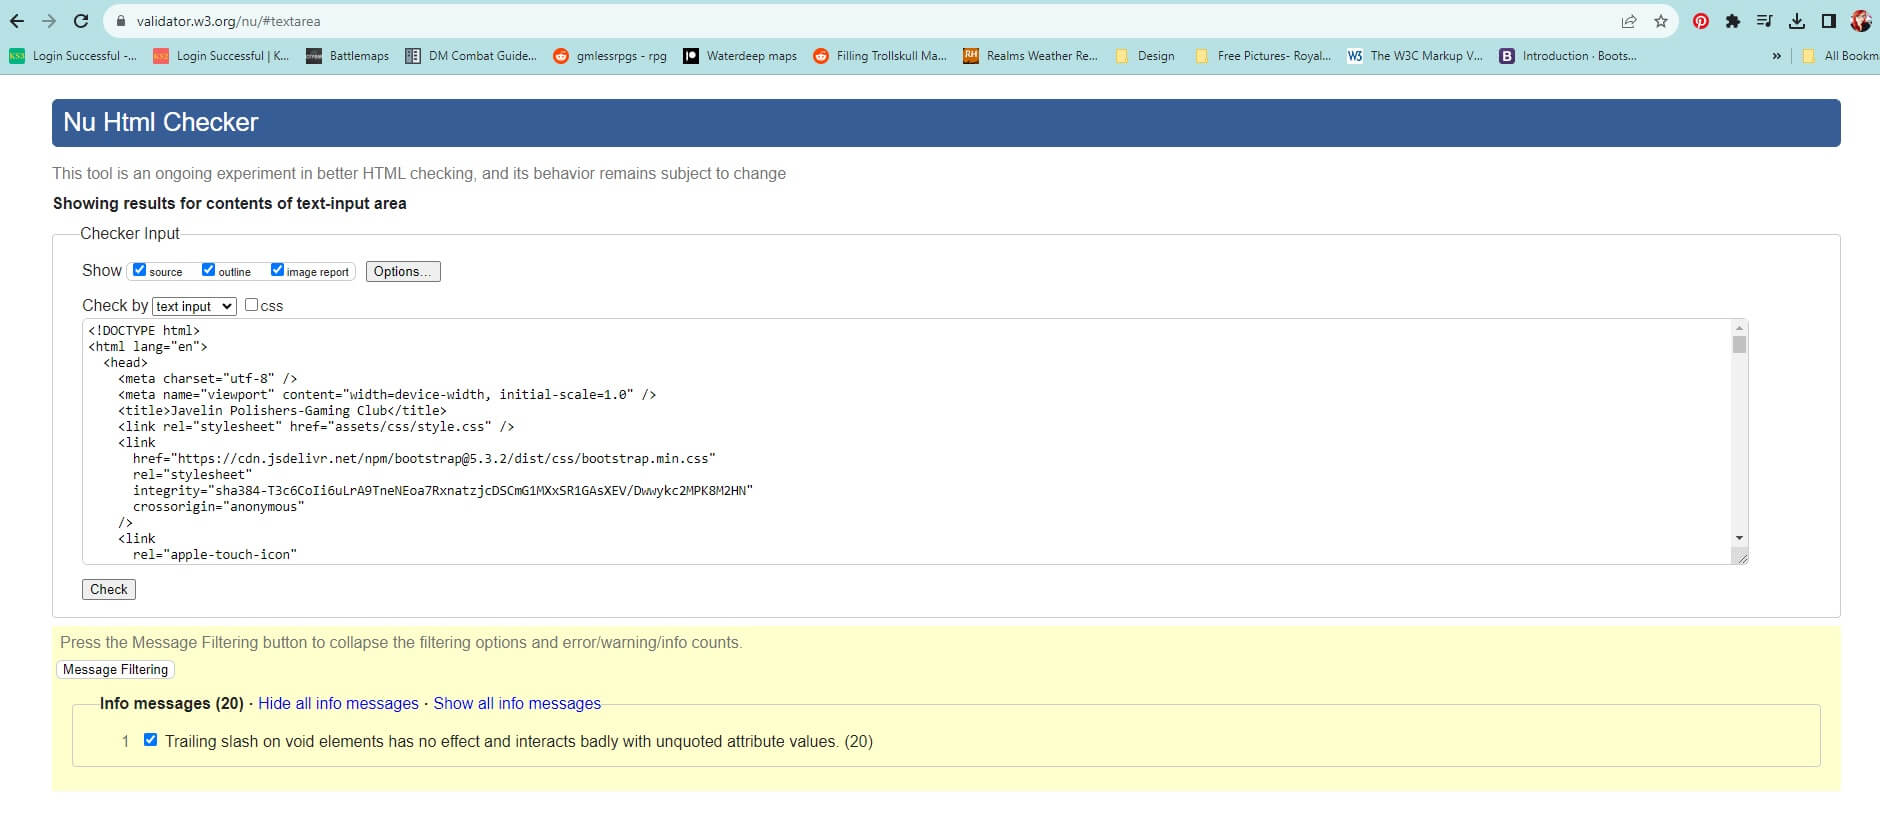
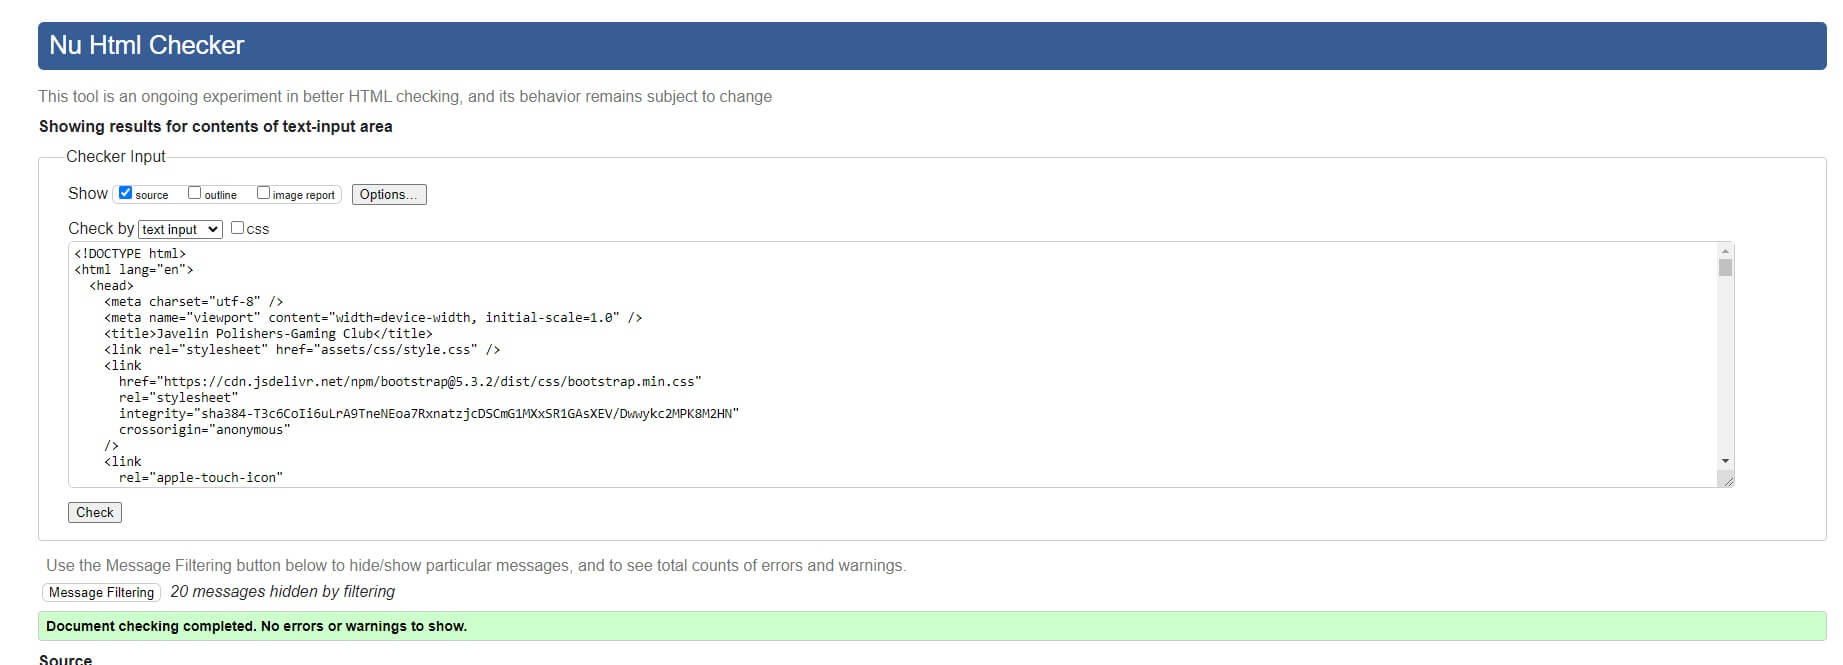
change w3c pass images

diff --git a/README.md b/README.md
@@ -330,20 +330,20 @@ I used some pictures the group had taken themselves for the member section. It w
 The webpage could be used in the future to stream live games. A blog could also be added as well as writing content and tables for other tabletop players.
 We could also have a more detailed calendar and schedule, with a more thorough booking system rather than TicketSource.
 
-## Testing
+## Manual Testing
 
-#### Is my site Accessible?
+### Dev Tools
 
 ### W3C
 
 I tested my site using W3C and these were my final results.
 My results from W3C:
 
-[Index Page Pass screenshot](assets/images/documentation/index-testing-pass.jpg)
+[Index Page Pass screenshot](assets/images/documentation/index-pass.jpg)
 
 Here is the tested page finished with direct code input, the only issue was Codeanywhere now using trailing slash that the validator picked up on but is now acceptable syntax.
 
-[Members Page Pass](assets/images/documentation/members-pass.jpg)
+[Members Page Pass](assets/images/documentation/member-pass.jpg)
 
 Here is the finished page, done with direct input.
 
@@ -351,7 +351,7 @@ Here is the finished page, done with direct input.
 
 This is the pass page done via direct input
 
-[Contact Page Pass](assets/images/documentation/contact-pass.png)
+[Contact Page Pass](assets/images/documentation/contact-pass.jpg)
 
 My CSS results: [CSS Pass](assets/images/documentation/css-pass.png)
 
@@ -389,6 +389,8 @@ When going through my website I found the following bugs.
 - Bug 4: The Contact form not functioning properly. I needed to change my code and add the required to all the input options.
 
 ### Accessibility
+
+#### Is my site Accessible?
 
 I wanted to make sure there was a strong contrast between elements and background colors, so I utilized bootstrap to draw out boxes and information.
 I added Alternative text to images to ensure that visually impaired users could understand what the image was.
